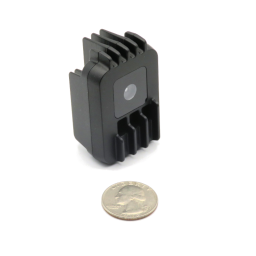
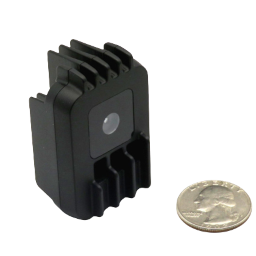
Added oak-1 lite docs page. Updated OAK-D Pro imgs

diff --git a/docs/source/pages/NG9096.rst b/docs/source/pages/NG9096.rst
@@ -1,0 +1,53 @@
+.. _ng9096:
+
+OAK-1 Lite
+==========
+
+`Buy it on Luxonis shop <https://shop.luxonis.com/collections/usb/products/oak-1-lite>`__
+
+.. image:: /_static/images/NG9096/oak-1-lite.jpg
+
+Overview
+********
+
+**OAK-1-Lite** takes the affordability idea and pushes it one step forward. By having the same AI and CV functionalities as
+:ref:`OAK-1` while being more affordable, it gives you the opportunity to create all sorts of projects.
+
+OAK-1-Lite isn’t a standard USB camera. It’s a 4-trillion-operations-per-second AI powerhouse that performs your AI models on-board,
+so that your host is free to do whatever you need it to do.
+
+Hardware specifications
+***********************
+
+.. include:: /pages/includes/imx214.rst
+
+.. include:: /pages/includes/mx_inside.rst
+
+
+OAK-1 vs OAK-1-Lite
+*******************
+
+The only difference between these two models is the color camera sensor; OAK-1-Lite uses IMX214 while :ref:`OAK-1` uses a higher
+quality color camera - IMX378. Otherwise OAK-1-Lite uses the same PCBA and enclosure as the OAK-1.
+
+Dimensions and Weight
+*********************
+* Width: 36 mm
+* Height: 54.5 mm
+* Length: 27.8 mm
+* Weight: 53.1 grams
+
+.. image:: /_static/images/NG9096/oak-1-lite-back.jpg
+
+Datasheet
+*********
+
+* `Datasheet <https://github.com/luxonis/depthai-hardware/blob/master/NG9096_OAK-1-Lite/Datasheet/OAK-1-Lite_Datasheet.pdf>`__
+
+3D models
+*********
+
+- Board STEP files `here <https://github.com/luxonis/depthai-hardware/tree/master/NG9096_OAK-1-Lite/3D_Models>`__
+- Enclosure STEP files `here <https://github.com/luxonis/depthai-hardware/tree/master/NG9096_OAK-1-Lite/Mechanical>`__
+
+.. include::  /pages/includes/footer-short.rst

diff --git a/docs/source/index.rst b/docs/source/index.rst
@@ -18,10 +18,9 @@ OAK-D and OAK-1 have been solving real-world problems for more than 2 years. **U
 10gbps throughput.
 
 .. list-table::
-   :widths: 30 30 30
    :header-rows: 1
 
-   * - OAK-D-Lite
+   * - OAK-D Lite
      - OAK-D S2
      - OAK-D Pro
    * - .. image:: /_static/images/thumbnails/DM9095.png
@@ -35,16 +34,19 @@ OAK-D and OAK-1 have been solving real-world problems for more than 2 years. **U
      - :ref:`Learn more <dm9098pro>`
 
 .. list-table::
-   :widths: 1 1
    :header-rows: 1
 
-   * - OAK-1
+   * - OAK-1 Lite
+     - OAK-1
      - OAK-D
-   * - .. image:: /_static/images/thumbnails/OAK-1.png
+   * - .. image:: /_static/images/thumbnails/oak-1-lite.png
+          :target: pages/NG9096.html
+     - .. image:: /_static/images/thumbnails/OAK-1.png
           :target: pages/BW1093.html
      - .. image:: /_static/images/thumbnails/BW1098OAK.png
           :target: pages/BW1098OAK.html
-   * - :ref:`Learn more <bw1093>`
+   * - :ref:`Learn more <ng9096>`
+     - :ref:`Learn more <bw1093>`
      - :ref:`Learn more <bw1098oak>`
 
 PoE Designs
@@ -251,6 +253,7 @@ All other hardware products.
    pages/DM9095.rst
    pages/DM9098s2.rst
    pages/DM9098pro.rst
+   pages/NG9096.rst
    pages/BW1093.rst
    pages/BW1098OAK.rst
 

diff --git a/docs/source/pages/DM9098pro.rst b/docs/source/pages/DM9098pro.rst
@@ -5,7 +5,7 @@ OAK-D Pro
 
 `Buy it on Luxonis shop <https://shop.luxonis.com/collections/beta-store/products/oak-d-pro>`__
 
-.. image:: /_static/images/DM9098/oak-d-pro-front.png
+.. image:: /_static/images/DM9098/oak-d-pro.jpg
 
 Overview
 ********
@@ -35,6 +35,8 @@ Dimensions and Weight
 
 .. include:: /pages/includes/depth_75_800P.rst
 
+.. image:: /_static/images/DM9098/oak-d-pro-bottom.jpg
+
 Datasheet
 *********
 
@@ -46,6 +48,7 @@ Datasheet
 - Board STEP files `here <https://github.com/luxonis/depthai-hardware/tree/master/DM9098_OAK-D-Pro/3D_Models>`__
 - Enclosure STEP files `here <https://github.com/luxonis/depthai-hardware/tree/master/DM9098_OAK-D-Pro/Mechanical>`__
 
+.. image:: /_static/images/DM9098/oak-d-pro-bacj.jpg
 
 .. include:: /pages/includes/laser-safety.rst
 
